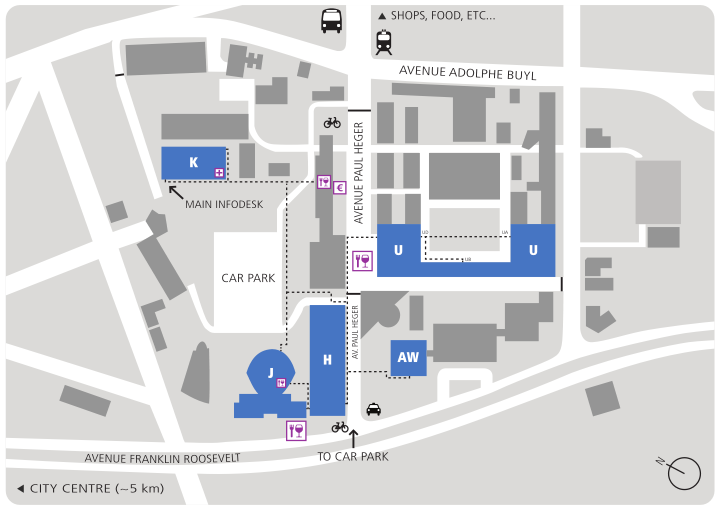
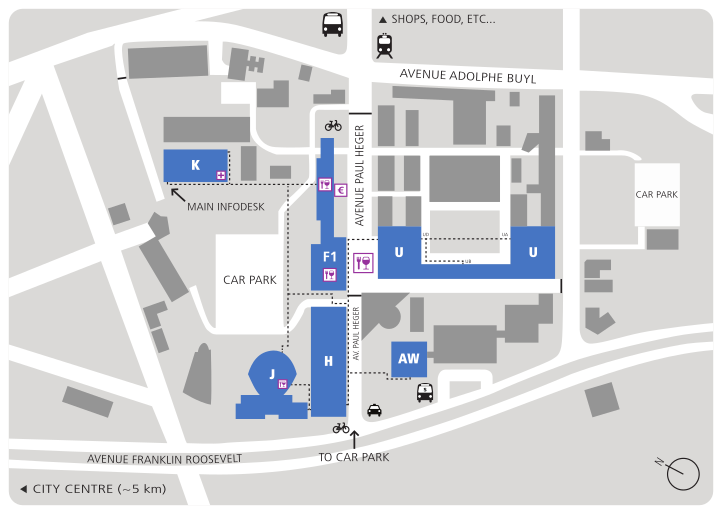
assets: update campusmap

diff --git a/content/index.html b/content/index.html
@@ -75,7 +75,7 @@ maxnews = @config.fetch(:news).fetch(:items_on_index_page).to_i
     <p>FOSDEM takes place at the ULB Solbosch Campus, <strong>Brussels, Belgium</strong>, Europe, Earth.</p>
     <div class="location-info">
       <div class="map">
-        <img style="float: right; text-align: right" src="asset:campusmap_parking" alt="ULB Solbosch Campus map: Location of FOSDEM" title="ULB Solbosch Campus map: Location of FOSDEM"}/>
+        <img style="float: right; text-align: right" src="asset:campusmap" alt="ULB Solbosch Campus map: Location of FOSDEM" title="ULB Solbosch Campus map: Location of FOSDEM"/>
       </div>
       <div class="location-text">
         <a class="logo-ulb-big" href="#">Université libre de bruxelles</a>

diff --git a/content/practical/transportation.html b/content/practical/transportation.html
@@ -5,7 +5,7 @@ sponsors_under_navigation: true
 ---
 <p>FOSDEM will take place at the ULB Solbosch Campus, <strong>Brussels, Belgium</strong>, Europe, Earth.</p>
 
-<img style="float: right; text-align: right" src="asset:campusmap_parking" alt="ULB Solbosch Campus map: Location of FOSDEM" title="ULB Solbosch Campus map: Location of FOSDEM"}/>
+<img style="float: right; text-align: right" src="asset:campusmap" alt="ULB Solbosch Campus map: Location of FOSDEM" title="ULB Solbosch Campus map: Location of FOSDEM"/>
 
 <div class="location-text">
   <a class="logo-ulb-big" href="#">Université libre de bruxelles</a>
